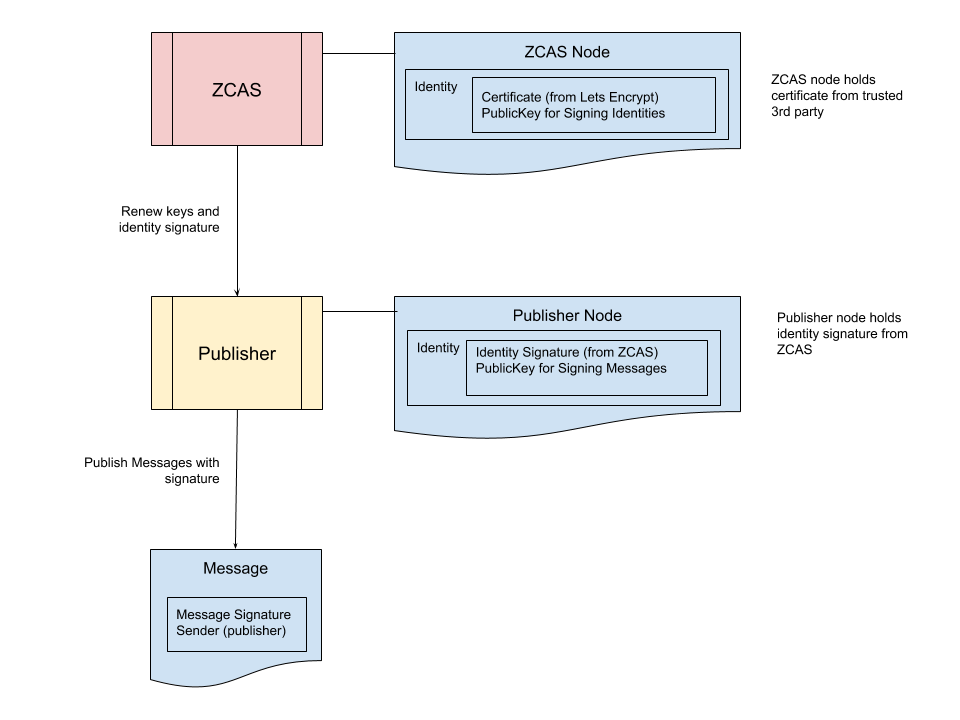
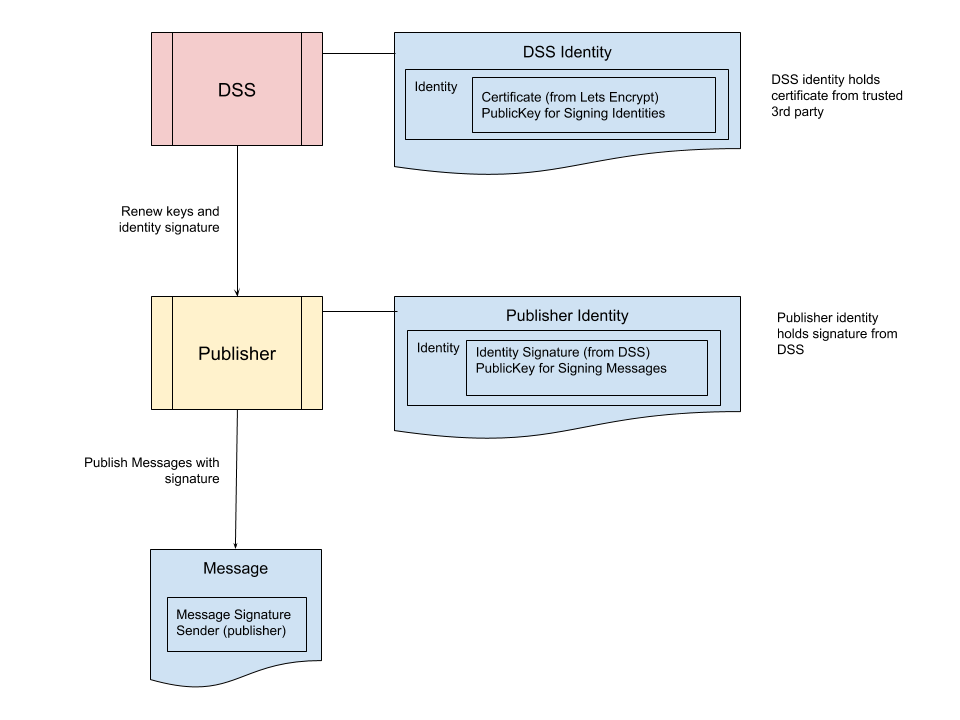
Rename namespaces to iotdomain

diff --git a/examples/example.js b/examples/example.js
@@ -1,7 +1,6 @@
+// Javascript
+// ----------
 
-Javascript
-----------
+// -   [https://github.com/kjur/jsrsasign](https://github.com/kjur/jsrsasign)
 
--   [https://github.com/kjur/jsrsasign](https://github.com/kjur/jsrsasign)
-
--   [https://github.com/rzcoder/node-rsa](https://github.com/rzcoder/node-rsa)
+// -   [https://github.com/rzcoder/node-rsa](https://github.com/rzcoder/node-rsa)

diff --git a/iotdomain-standard.md b/iotdomain-standard.md
@@ -1,7 +1,7 @@
-The IotConnect Standard
+The IoTDomain Standard
 =======================
 
-The IotConnect standard defines a simple and easy to use information exchange method between IoT publishers and consumers.
+The IoTDomain standard defines a simple and easy to use information exchange method between IoT publishers and consumers.
 
 
 [[TOC]]
@@ -793,9 +793,9 @@ For Example:
 The signature is generated using [ECDSA Elliptic Curve Cryptography](https://blog.cloudflare.com/ecdsa-the-digital-signature-algorithm-of-a-better-internet). Its keys are shorter than RSA, it has not (yet - May 2020) been broken and it is claimed to be [more secure than RSA](https://blog.cloudflare.com/a-relatively-easy-to-understand-primer-on-elliptic-curve-cryptography/).
 
 See the example code for generating and verifying signatures:
-* golang: https://github.com/hspaay/iotc.standard/tree/master/examples/edcsa_text.go. See also the go-jose library.
-* python: https://github.com/hspaay/iotc.standard/tree/master/examples/example.py
-* javascript: https://github.com/hspaay/iotc.standard/tree/master/examples/example.js
+* golang: https://github.com/iotdomain/iotd.standard/tree/master/examples/edcsa_text.go. See also the go-jose library.
+* python: https://github.com/iotdomain/iotd.standard/tree/master/examples/example.py
+* javascript: https://github.com/iotdomain/iotd.standard/tree/master/examples/example.js
 
 
 ## Updating The Publisher Identity
@@ -942,7 +942,7 @@ Just like publishers, the DSS has an identity with a signature. There are two me
 
 1. Message bus permissions. Only the DSS has the credentials to publish on the dss publisher address. This is the default in local domains. Restricting access to the DSS publisher address using message bus ACLs is highly recommended.
 
-2. Global Certificate. The DSS is published with a certificate signed by a global CA like Lets Encrypt. Subscribers can verify this certificate with the global CA before trusting the DSS. To facilitate the use of global domains, the domain '\{name}.iotc.zone' is available, where \{name} is a globally unique domain.
+2. Global Certificate. The DSS is published with a certificate signed by a global CA like Lets Encrypt. Subscribers can verify this certificate with the global CA before trusting the DSS. To facilitate the use of global domains, the domain '\{name}.iotd.zone' is available, where \{name} is a globally unique domain.
 
 The domain 'local' is reserved for local-only domains. In this case message bus permissions must secure the DSS publications and no certificate is used. 
 
@@ -1140,7 +1140,7 @@ attributes are configurable they are included in the Node Config section.
 | filename         | filename to write images or other values |
 | gatewayAddress   | the node gateway address |
 | hostname         | network device hostname |
-| iotcVersion      | Publishers include the version of the IotConnect standard. Eg v1.0 |
+| iotcVersion      | Publishers include the version of the IoTDomain standard. Eg v1.0 |
 | localIP          | IP address of the node, for nodes that are publishers themselves |
 | latlon           | String with "{latitude}, {longitude}" of device location  |
 | locationName     | Name of a location |

diff --git a/industrial-usecases.md b/industrial-usecases.md
@@ -1,3 +1,3 @@
-# IoTConnect Industrial Automation Use-Cases
+# Industrial IoT Use-Cases
 
 work in progress...

diff --git a/home-automation-usecases.md b/home-automation-usecases.md
@@ -1,3 +1,3 @@
-# IoTConnect Home Automation Use-Cases
+# Home Automation IoT Use-Cases
 
 work in progress...
